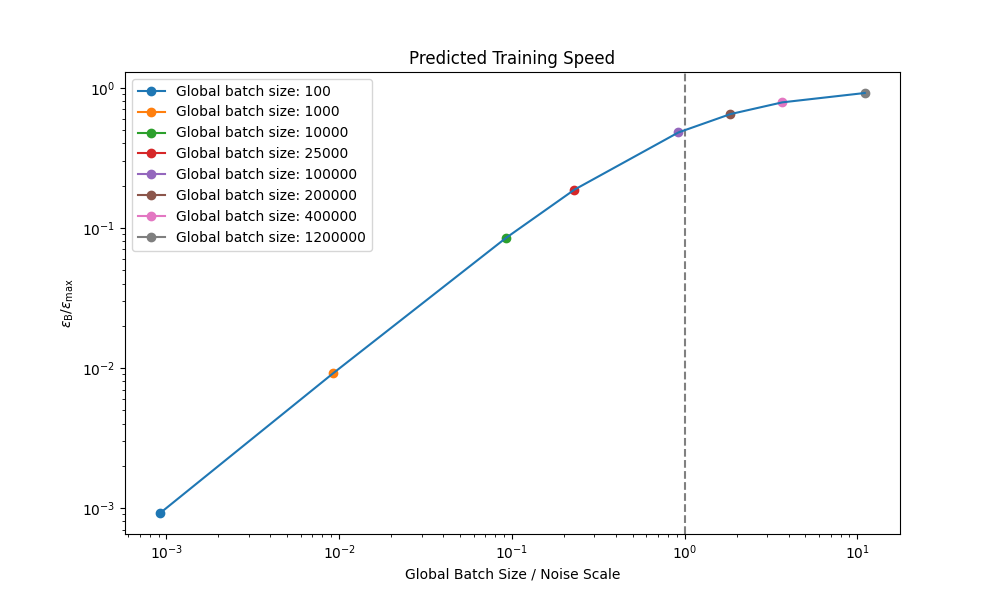
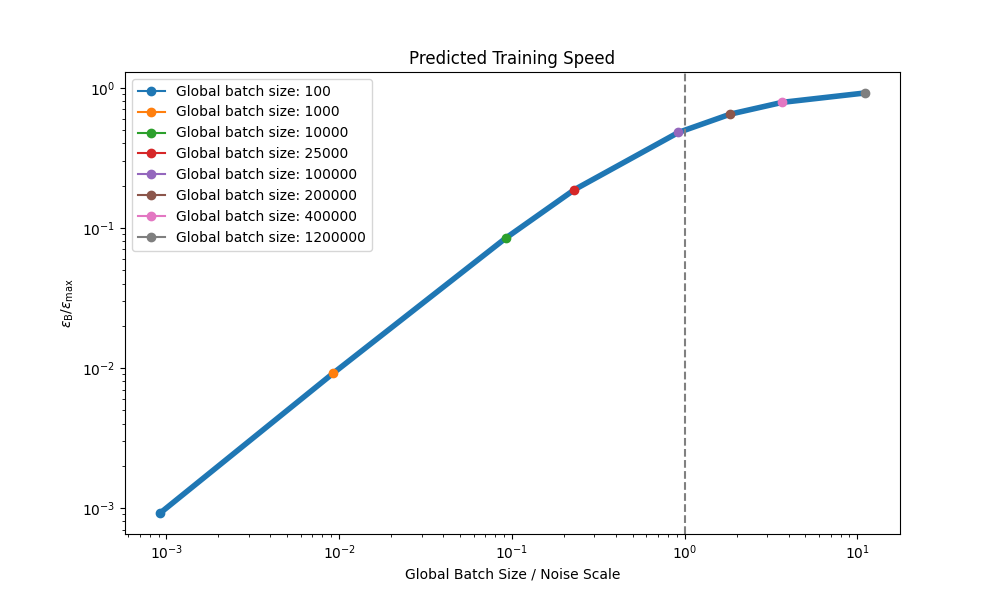
fix plot

diff --git a/src/plot_scaling_laws.py b/src/plot_scaling_laws.py
@@ -334,7 +334,8 @@ for batch_size, params, hist in total_global_batch_results:
 
 
 ax.axvline(x=1, color='gray', linestyle='--')
-ax.plot(x_vals, y_vals, linestyle='-', color='#1f77b4')
+# send this to behind the dots
+ax.plot(x_vals, y_vals, linestyle='-', color='#1f77b4', linewidth=4, zorder=0)
 ax.set_xlabel("Global Batch Size / Noise Scale")
 ax.set_ylabel(fr"${{\epsilon_\text{{B}}}} / {{\epsilon_\text{{max}}}}$")
 ax.set_yscale('log')
